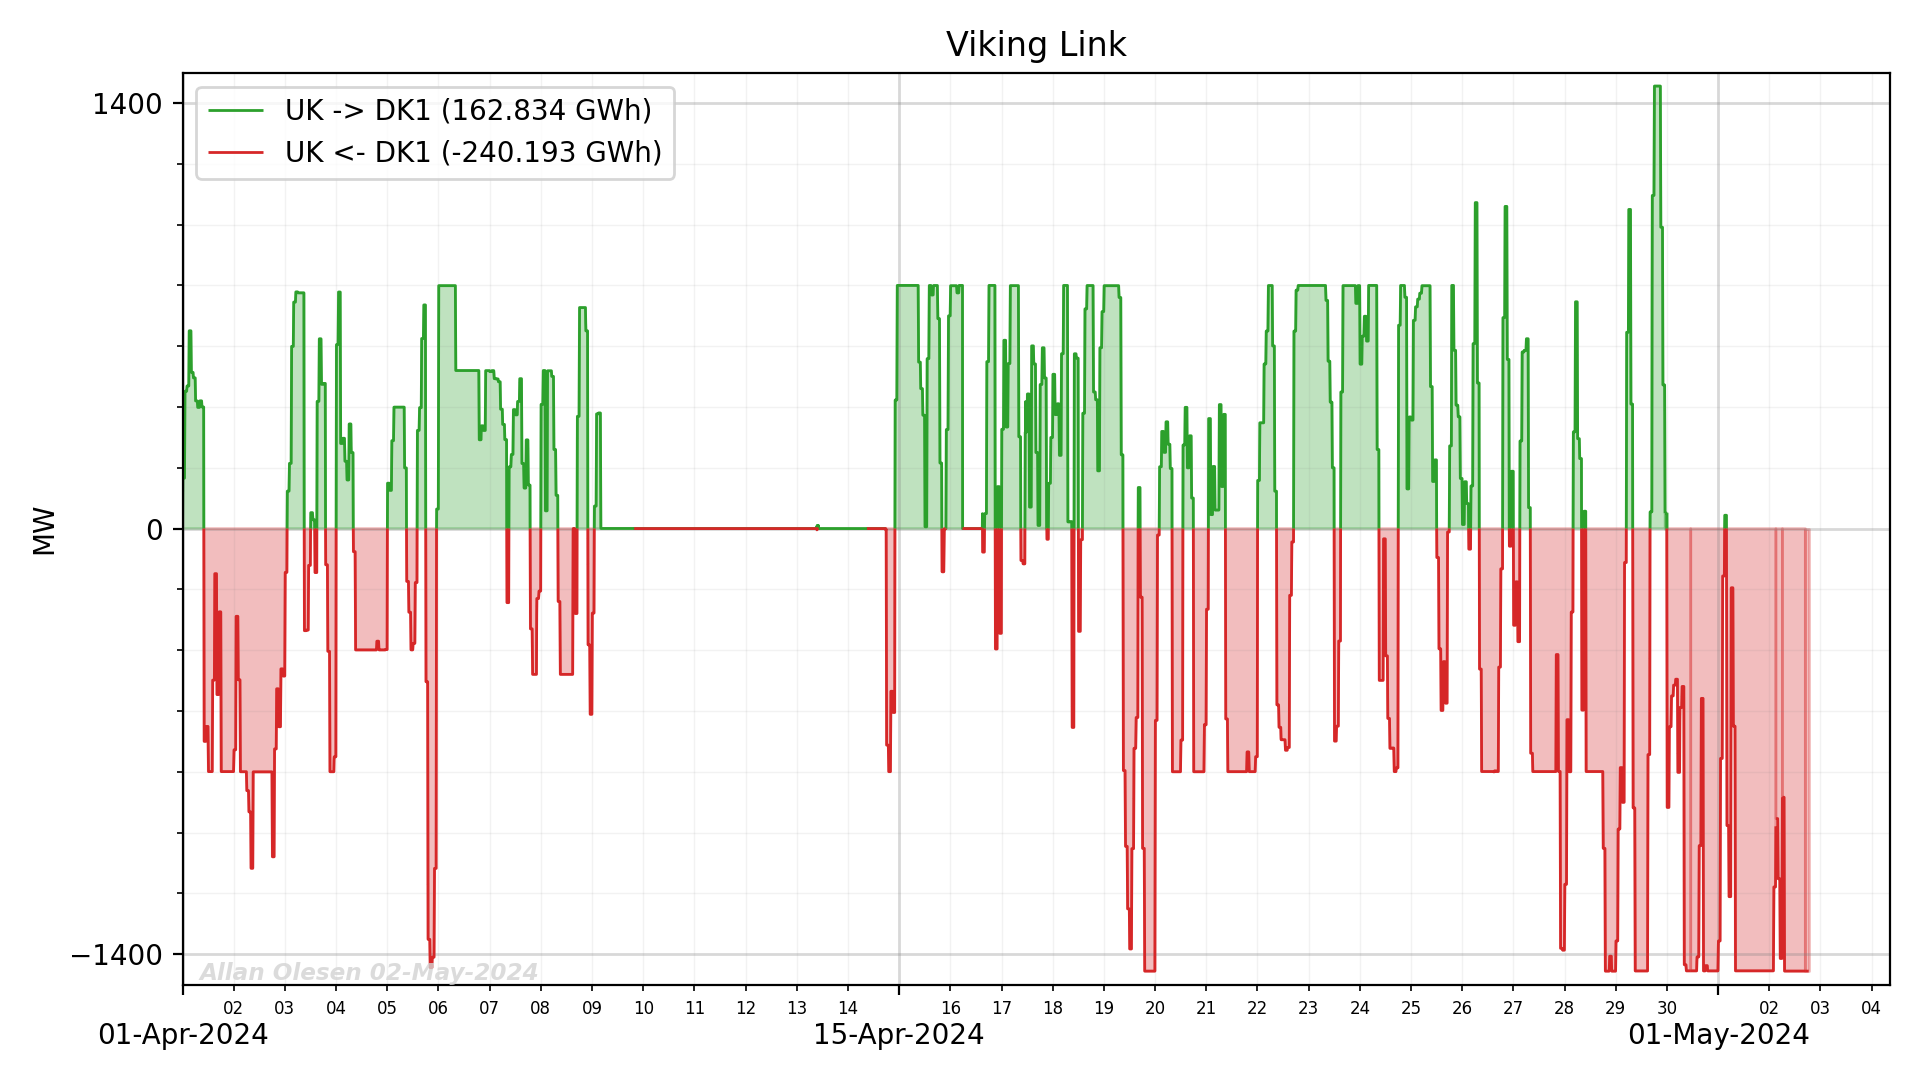
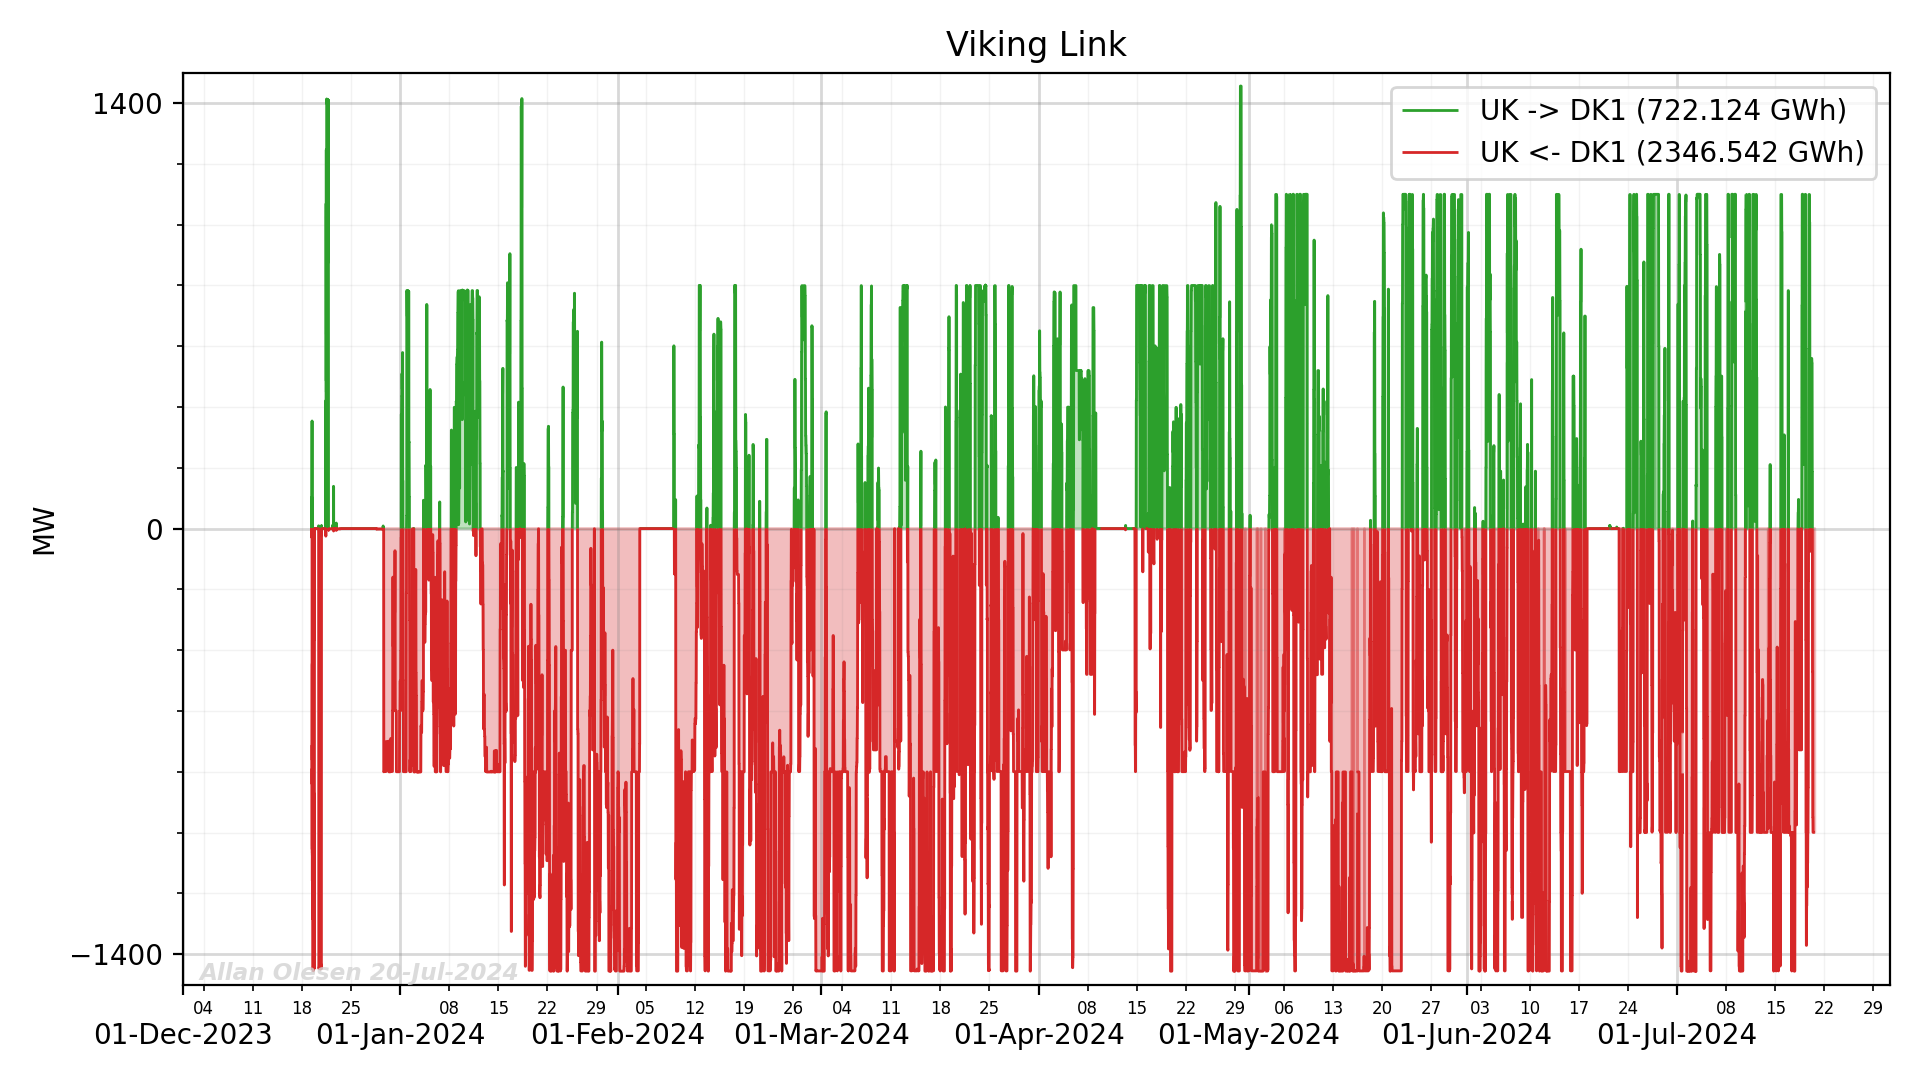
Update UK exchange

diff --git a/src/en_data/exchange_uk.py b/src/en_data/exchange_uk.py
@@ -26,7 +26,7 @@ rc = RestClient(
     srcTable = 'PowerSystemRightNow',
     params = {
         'offset': '0',
-        'start':  '2024-04-01T00:00',
+        'start':  '2023-12-01T00:00',
         # 'start':  '2023-12-29T12:00',
         'end':    '2024-12-31T00:00',
         'sort':   'Minutes1DK',
@@ -155,11 +155,16 @@ elif xrange < 59:
     ax.xaxis.set_major_formatter(mdates.DateFormatter("%d-%b-%Y"))
     ax.xaxis.set_minor_locator(mdates.DayLocator(interval=1))
     ax.xaxis.set_minor_formatter(mdates.DateFormatter("%d"))
-else:
+elif xrange < 119:
     ax.xaxis.set_major_locator(mdates.MonthLocator(bymonthday=1))
     ax.xaxis.set_major_formatter(mdates.DateFormatter("%d-%b-%Y"))
     ax.xaxis.set_minor_locator(mdates.WeekdayLocator(byweekday=mdates.MO))
     ax.xaxis.set_minor_formatter(mdates.DateFormatter("%d-%b"))
+else:
+    ax.xaxis.set_major_locator(mdates.MonthLocator(bymonthday=1))
+    ax.xaxis.set_major_formatter(mdates.DateFormatter("%d-%b-%Y"))
+    ax.xaxis.set_minor_locator(mdates.WeekdayLocator(byweekday=mdates.MO))
+    ax.xaxis.set_minor_formatter(mdates.DateFormatter("%d"))
 
 
 
